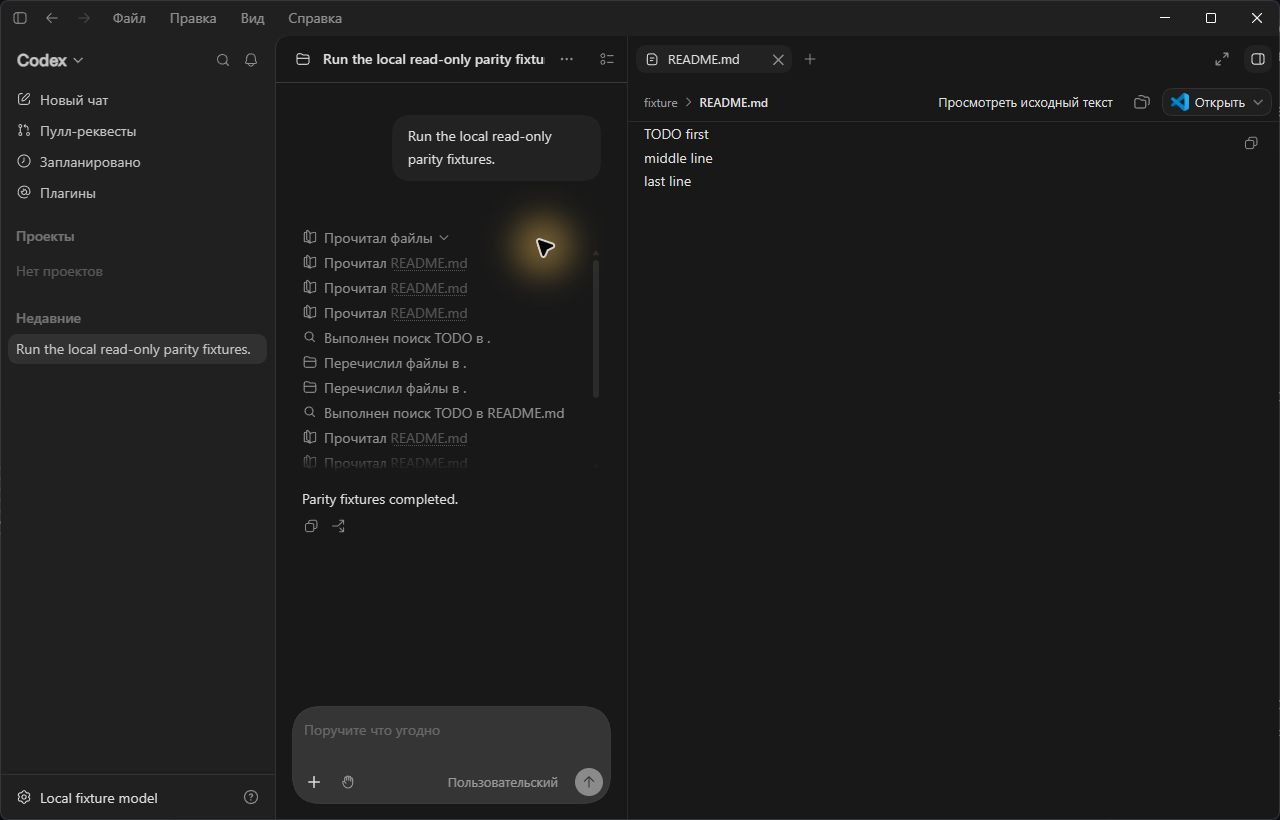
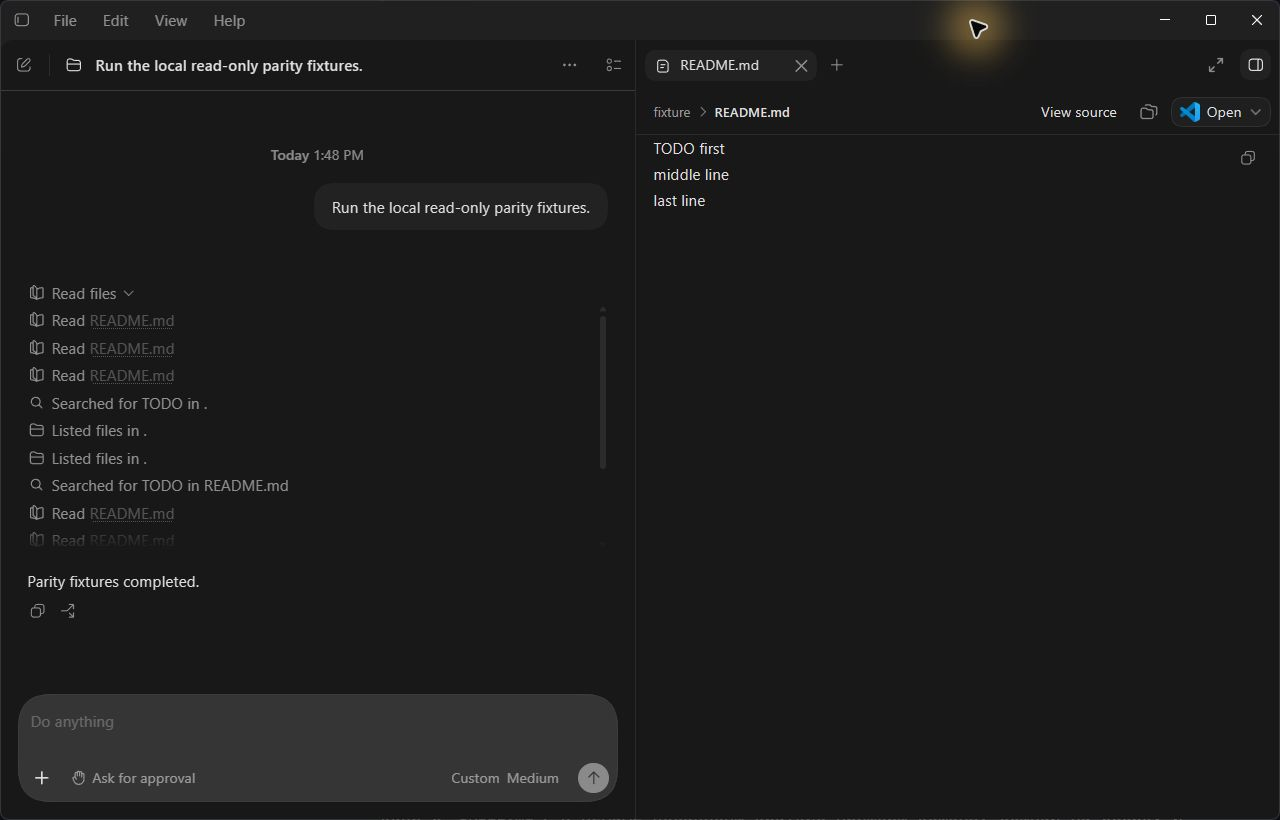
docs: polish README and capture English desktop screenshots [skip ci]

diff --git a/README.md b/README.md
@@ -1,10 +1,27 @@
 # Codex PowerShell Actions
 
-Unofficial, version-pinned backend patch for **Codex on Windows / PowerShell 7**. It makes reliably recognizable file reads, content searches, and directory listings appear as those actions in Codex instead of generic command executions.
+**Readable file actions for Codex on Windows.**
 
-This is a fork of [openai/codex](https://github.com/openai/codex), with the patch maintained on `powershell-action-parity`. It is maintained independently and is not an OpenAI release or a desktop plugin. The desktop application's installed resources are not modified.
+[![Windows checks](https://github.com/samo33ddd/codex/actions/workflows/powershell-parity.yml/badge.svg?branch=powershell-action-parity)](https://github.com/samo33ddd/codex/actions/workflows/powershell-parity.yml)
+[![Upstream compatibility](https://github.com/samo33ddd/codex/actions/workflows/powershell-upstream.yml/badge.svg?branch=powershell-action-parity)](https://github.com/samo33ddd/codex/actions/workflows/powershell-upstream.yml)
 
-![PowerShell actions and a working file link](verification/desktop-readme.png)
+[Get a candidate build](#use-a-candidate-build) · [Compatibility](#compatibility) · [Supported commands](#what-changes) · [Verification](verification/powershell-parity.md)
+
+An unofficial, version-pinned backend patch for **Windows x64 and PowerShell 7**. Recognized file reads, searches, and directory listings appear as structured actions in the Codex activity history, with file links where supported.
+
+| PowerShell command | Activity |
+|---|---|
+| `Get-Content README.md` | Read a file and open its preview |
+| `Select-String -Path README.md -Pattern TODO` | Search file contents |
+| `Get-ChildItem` | List files |
+
+## In action
+
+![English Codex interface showing PowerShell read, search and list actions beside the opened README](verification/desktop-readme.png)
+
+*A real desktop capture: expanded PowerShell activity on the left, the file opened from a read action on the right. Captured with the English interface in an isolated test profile.*
+
+This fork preserves the history of [openai/codex](https://github.com/openai/codex); the patch lives on `powershell-action-parity`. It is not an OpenAI release or a desktop plugin. The installed desktop resources are unchanged.
 
 ## Compatibility
 

diff --git a/verification/powershell-parity.md b/verification/powershell-parity.md
@@ -53,10 +53,15 @@ Machine-specific paths, process IDs, disposable profile data and raw logs are no
 
 Read-only inspection of the installed desktop resources confirmed `CODEX_CLI_PATH` support. An isolated desktop instance then ran the patched backend; its actual executable path was checked, while the normal application remained on the stock backend.
 
-The expanded history showed all 13 ordered read/search/list entries with `Прочитал`, `Выполнен поиск`, and `Перечислил`. Clicking README opened the correct fixture containing `TODO first`, `middle line`, and `last line`. Clicking SKILL.md opened the correct fixture metadata. Screenshots:
+The expanded history showed all 13 ordered read/search/list entries. The screenshots below were recaptured with the desktop's English interface, showing `Read`, `Searched`, and `Listed`. Clicking README opened the correct fixture containing `TODO first`, `middle line`, and `last line`. Clicking SKILL.md opened the correct fixture metadata.
 
-- [Read actions, grouping, and README target](desktop-readme.png)
-- [Skill document target](desktop-skill.png)
+### File reads, search and listings
+
+![English activity history with the README opened from a read action](desktop-readme.png)
+
+### Skill document preview
+
+![English activity history with the SKILL.md fixture opened in the side panel](desktop-skill.png)
 
 The skill fixture was shown as a file read. Registered-skill detection and special TUI labeling are covered by the skills/TUI tests; the screenshot alone is not evidence of registered-skill labeling.
 
